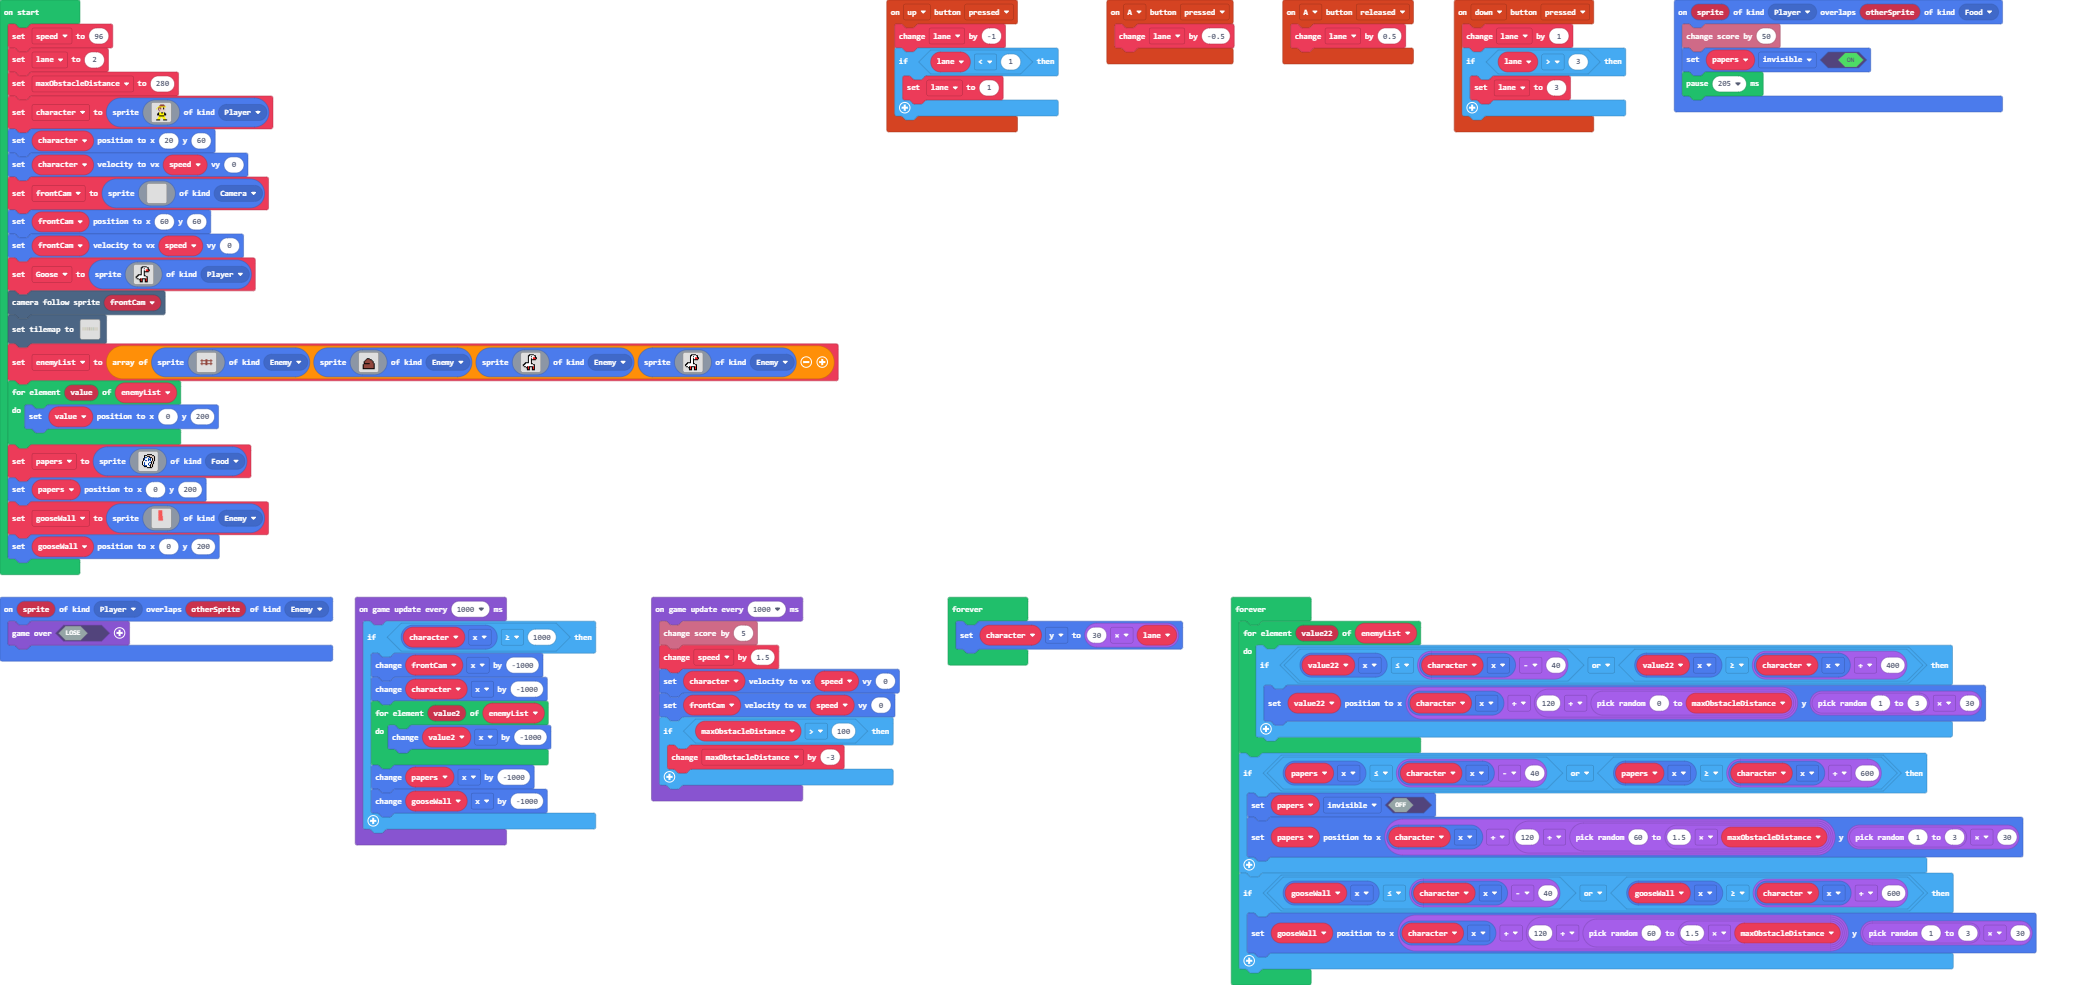
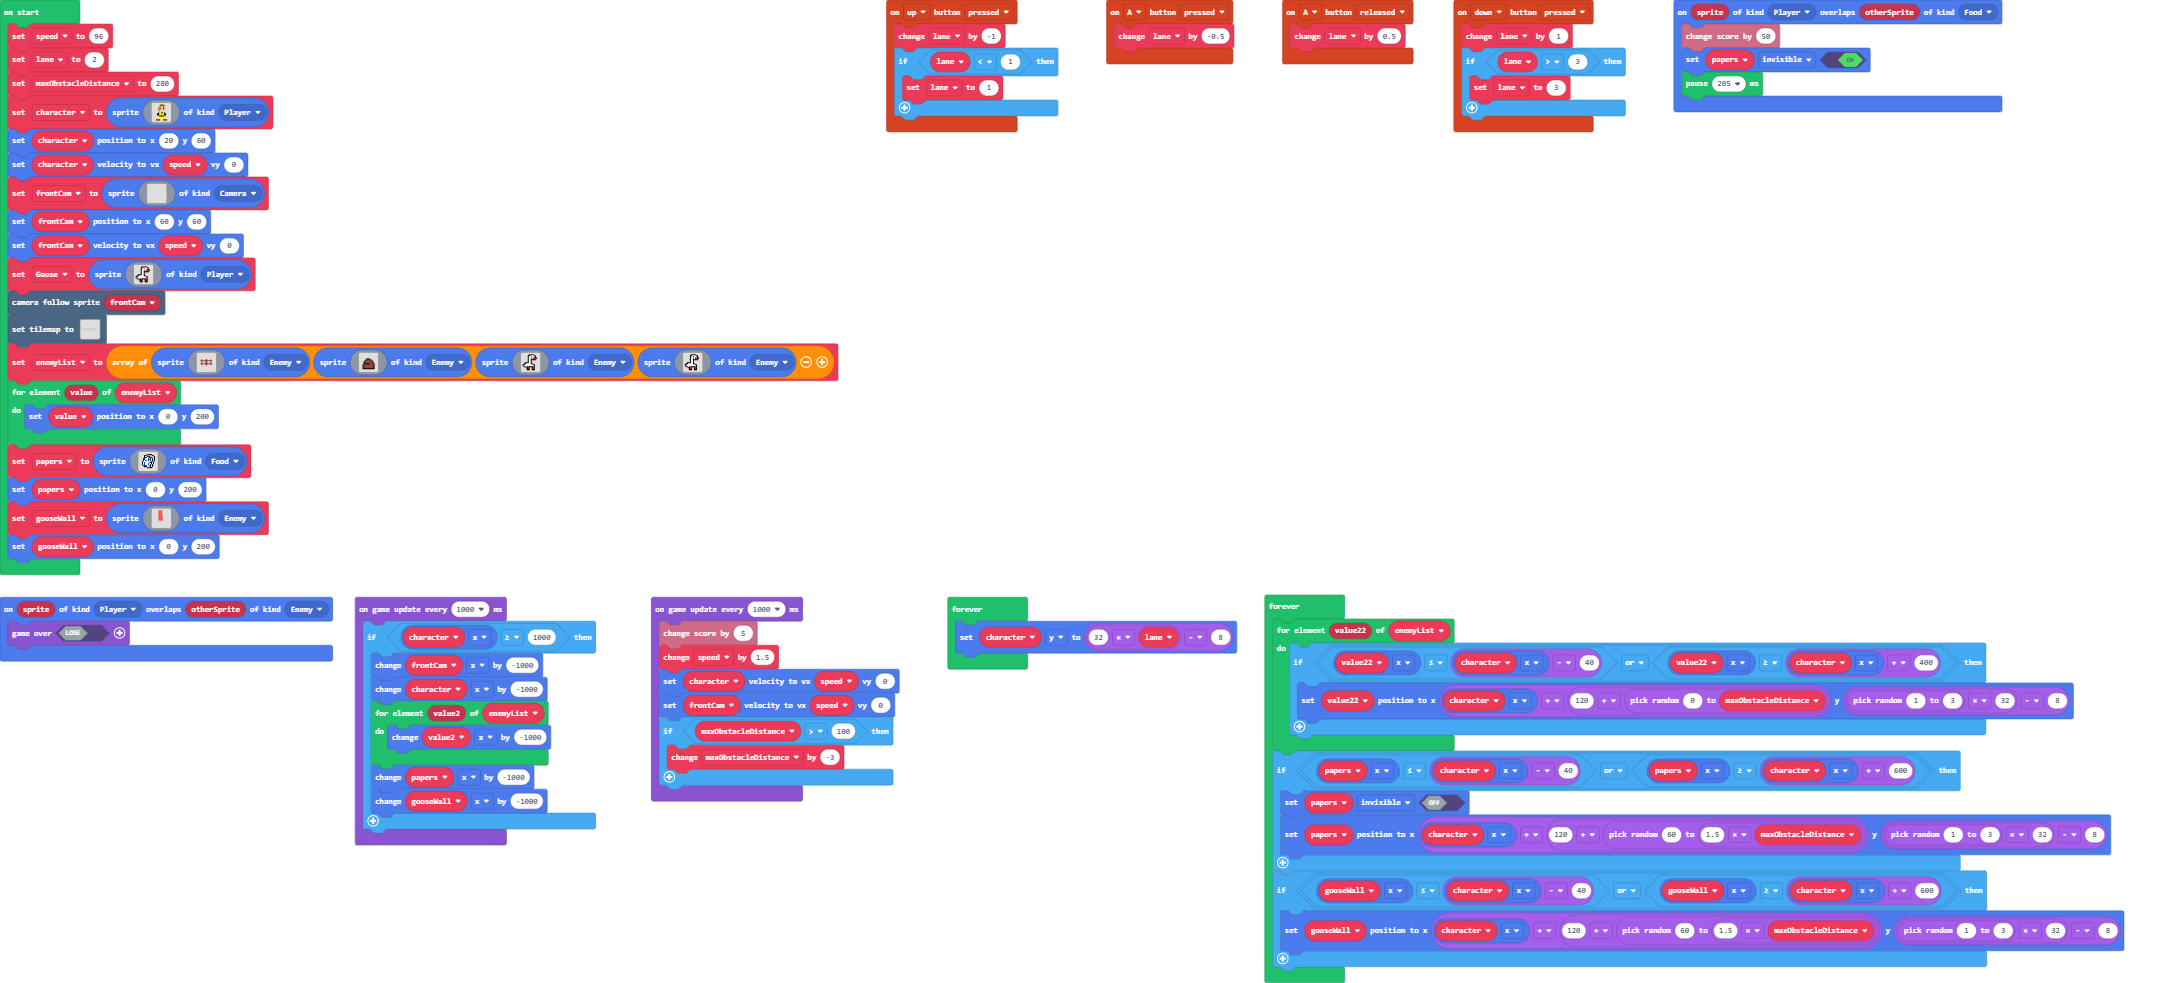
Update main.blocks, main.ts

Changed region(s): [[0.0, 0.0305, 0.9962, 1.0], [0.4047, 0.0, 0.965, 0.1526], [0.9028, 0.0916, 0.965, 0.1221]]

diff --git a/main.ts b/main.ts
@@ -249,19 +249,19 @@ game.onUpdateInterval(1000, function () {
     }
 })
 forever(function () {
-    character.y = 30 * lane
+    character.y = 32 * lane - 8
 })
 forever(function () {
     for (let value22 of enemyList) {
         if (value22.x <= character.x - 40 || value22.x >= character.x + 400) {
-            value22.setPosition(character.x + (120 + randint(0, maxObstacleDistance)), randint(1, 3) * 30)
+            value22.setPosition(character.x + (120 + randint(0, maxObstacleDistance)), randint(1, 3) * 32 - 8)
         }
     }
     if (papers.x <= character.x - 40 || papers.x >= character.x + 600) {
         papers.setFlag(SpriteFlag.Invisible, false)
-        papers.setPosition(character.x + (120 + randint(60, 1.5 * maxObstacleDistance)), randint(1, 3) * 30)
+        papers.setPosition(character.x + (120 + randint(60, 1.5 * maxObstacleDistance)), randint(1, 3) * 32 - 8)
     }
     if (gooseWall.x <= character.x - 40 || gooseWall.x >= character.x + 600) {
-        gooseWall.setPosition(character.x + (120 + randint(60, 1.5 * maxObstacleDistance)), randint(1, 3) * 30)
+        gooseWall.setPosition(character.x + (120 + randint(60, 1.5 * maxObstacleDistance)), randint(1, 3) * 32 - 8)
     }
 })
